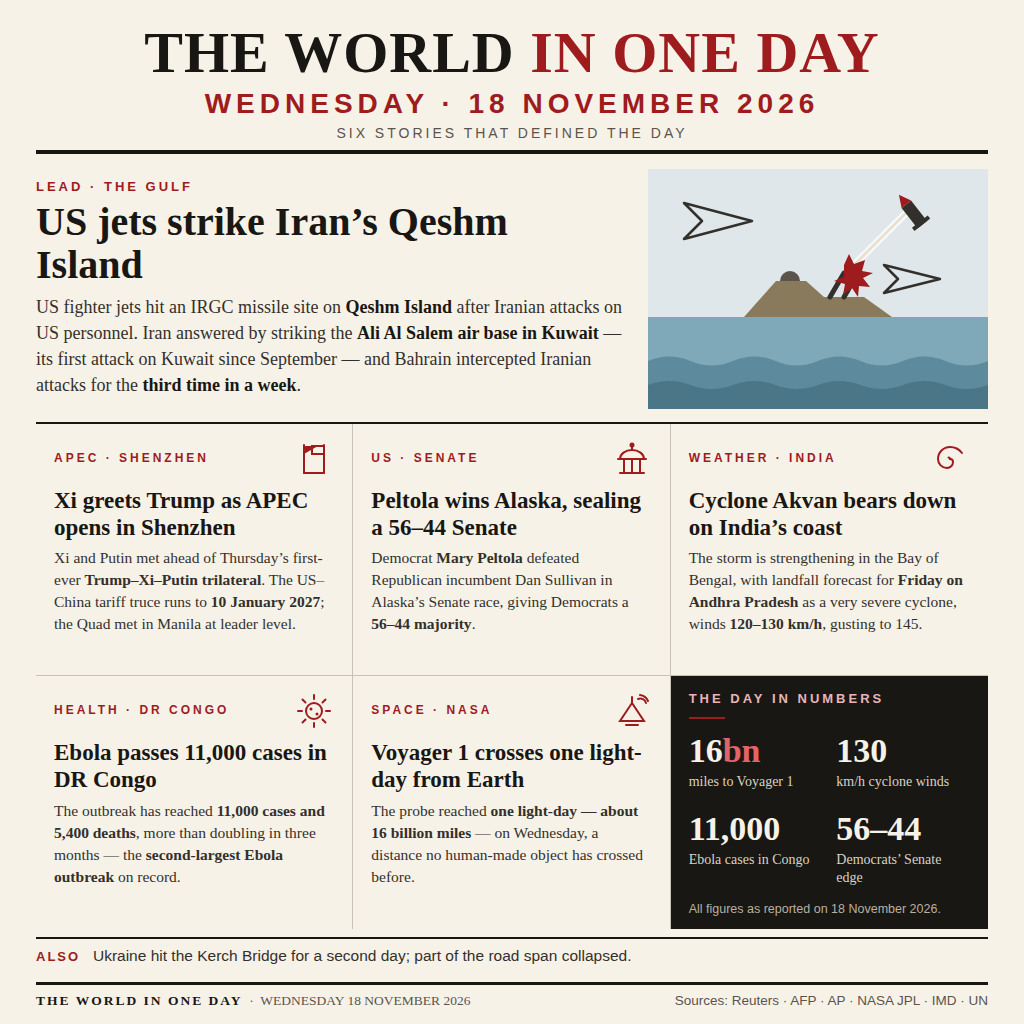
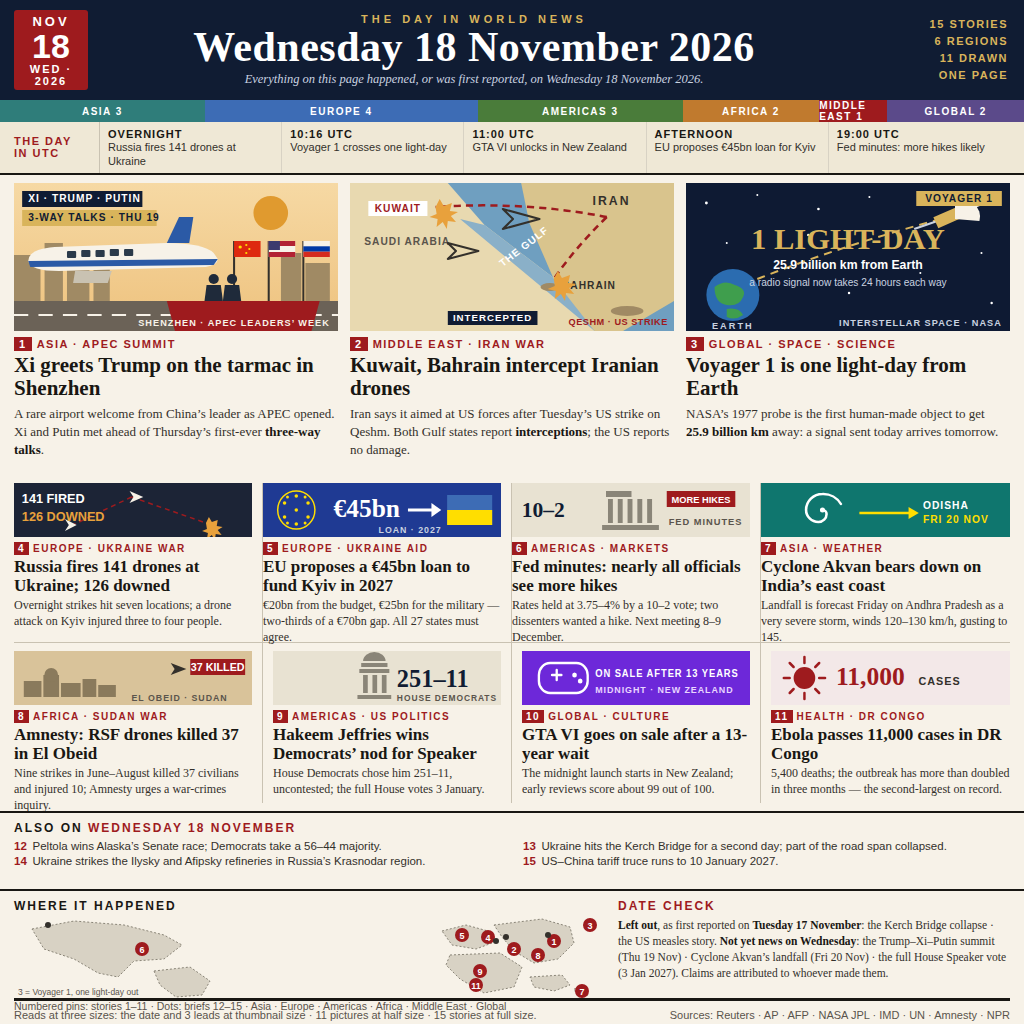
Dense front-page redesign: 15 stories, timeline, map, date check
Rebuild entry.png in the dense newspaper style the user asked for:
masthead + THE DAY IN UTC timeline, three illustrated leads (APEC
tarmac, Gulf map, Voyager 1), eight cards, numbered ALSO briefs,
WHERE IT HAPPENED map and DATE CHECK footer. Only verified facts;
no invented numbers or times.

diff --git a/README.md b/README.md
@@ -1,5 +1,9 @@
 # 18 November 2026 — The World in One Day
 
-A newspaper-style image summing up the world's news of Wednesday 18 November 2026: the US strike on an IRGC missile site on Iran's Qeshm Island and Iran's retaliation against the Ali Al Salem air base in Kuwait; Xi greeting Trump as APEC opened in Shenzhen ahead of the first-ever Trump–Xi–Putin trilateral; Mary Peltola winning Alaska's Senate race for a 56–44 Democratic majority; Cyclone Akvan bearing down on India's Andhra Pradesh coast; the DR Congo Ebola outbreak passing 11,000 cases; and Voyager 1 crossing one light-day from Earth. The image is drawn as a front page — masthead, dateline, lead story, five cards, a numbers box and a sources footer — and the program copies it to the output directory unchanged.
+A dense newspaper-style image summing up the world's news of Wednesday 18 November 2026 — 15 stories on one page: a navy masthead with the date, a "THE DAY IN UTC" timeline, three illustrated lead stories, eight cards, a numbered briefs strip, a "WHERE IT HAPPENED" map and a "DATE CHECK" footer.
 
-Run it with `mkdir -p out && MAKEFUN_OUTPUT_DIR=out node main.ts`. The image is 1024×1024 PNG, 207,771 bytes.
+Leads: Xi greets Trump on the tarmac in Shenzhen as APEC opens; Kuwait and Bahrain intercept Iranian drones after the US strike on Qeshm Island; Voyager 1 crosses one light-day from Earth. Cards: Russia fires 141 drones at Ukraine (126 downed); the EU proposes a €45bn loan for Kyiv in 2027; Fed minutes point to more hikes; Cyclone Akvan bears down on India's east coast; Amnesty reports 37 killed by RSF drones in El Obeid; Hakeem Jeffries wins the Democrats' Speaker nomination 251–11; GTA VI goes on sale after a 13-year wait; Ebola passes 11,000 cases in DR Congo. Briefs: Peltola wins Alaska's Senate race (56–44); Ukraine hits the Kerch Bridge for a second day; Ukraine strikes the Ilysky and Afipsky refineries; the US–China tariff truce runs to 10 January 2027.
+
+v2 redesign (19 Nov 2026): rebuilt in the dense front-page style the user asked for — timeline strip, detailed flat illustrations per story, numbered briefs, world map and date check — using only verified facts. The image is drawn as a front page and the program copies it to the output directory unchanged.
+
+Run it with `mkdir -p out && MAKEFUN_OUTPUT_DIR=out node main.ts`. The image is 1024×1024 PNG.
